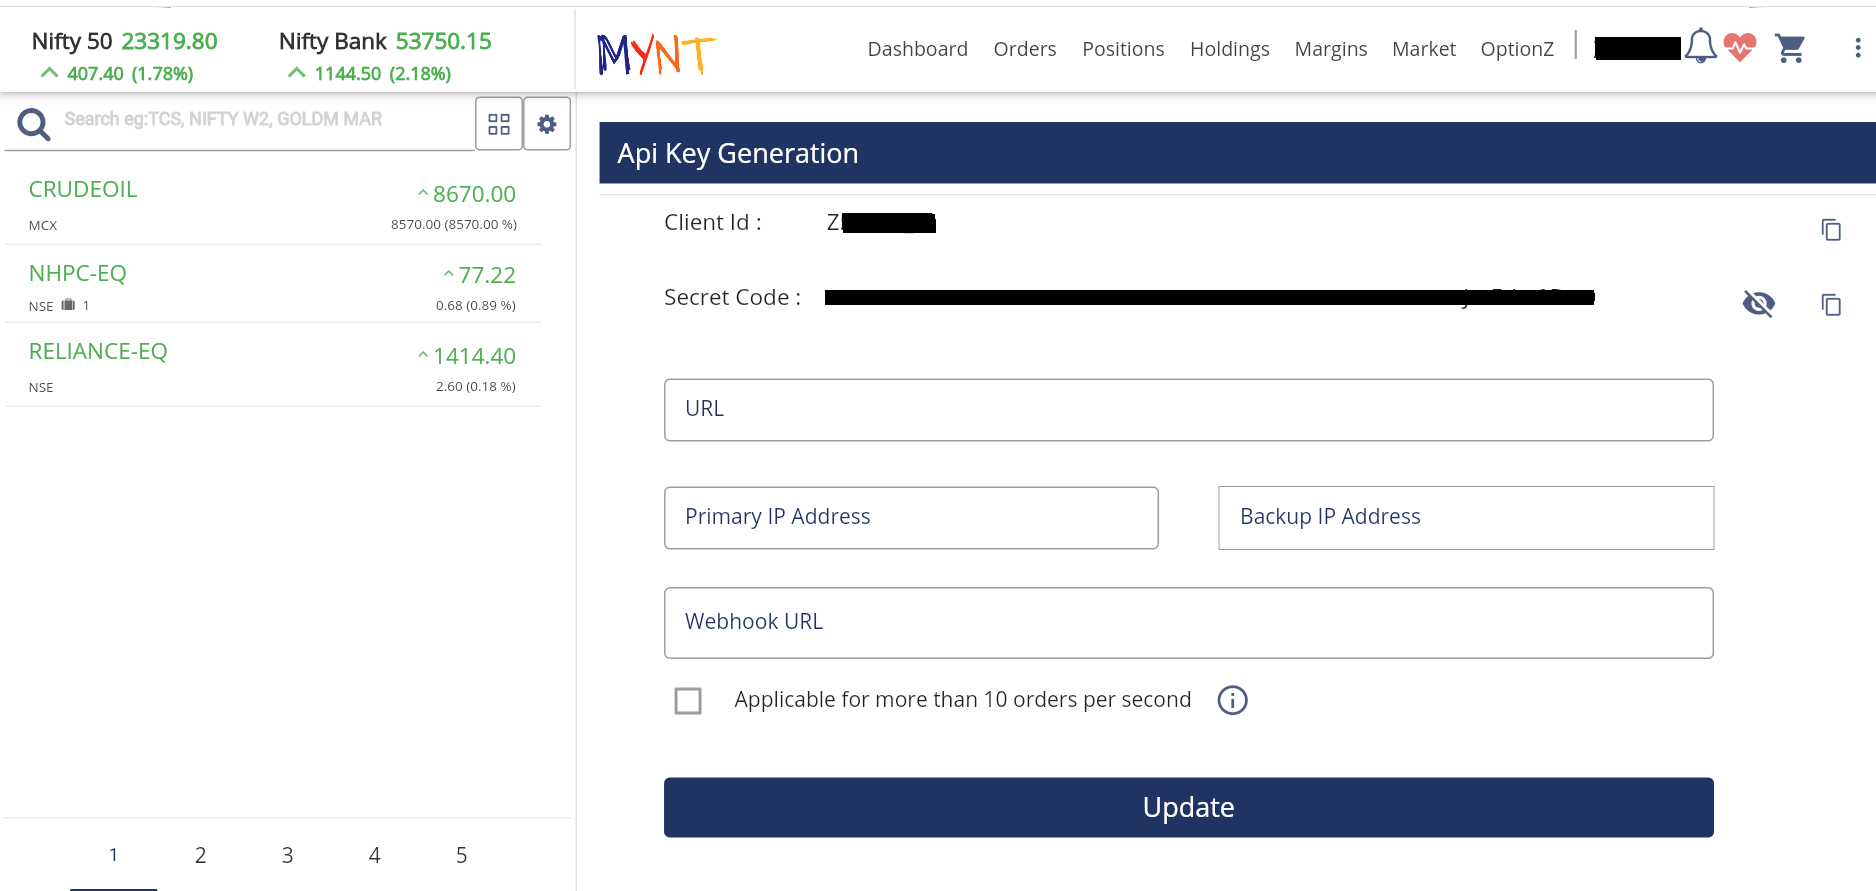
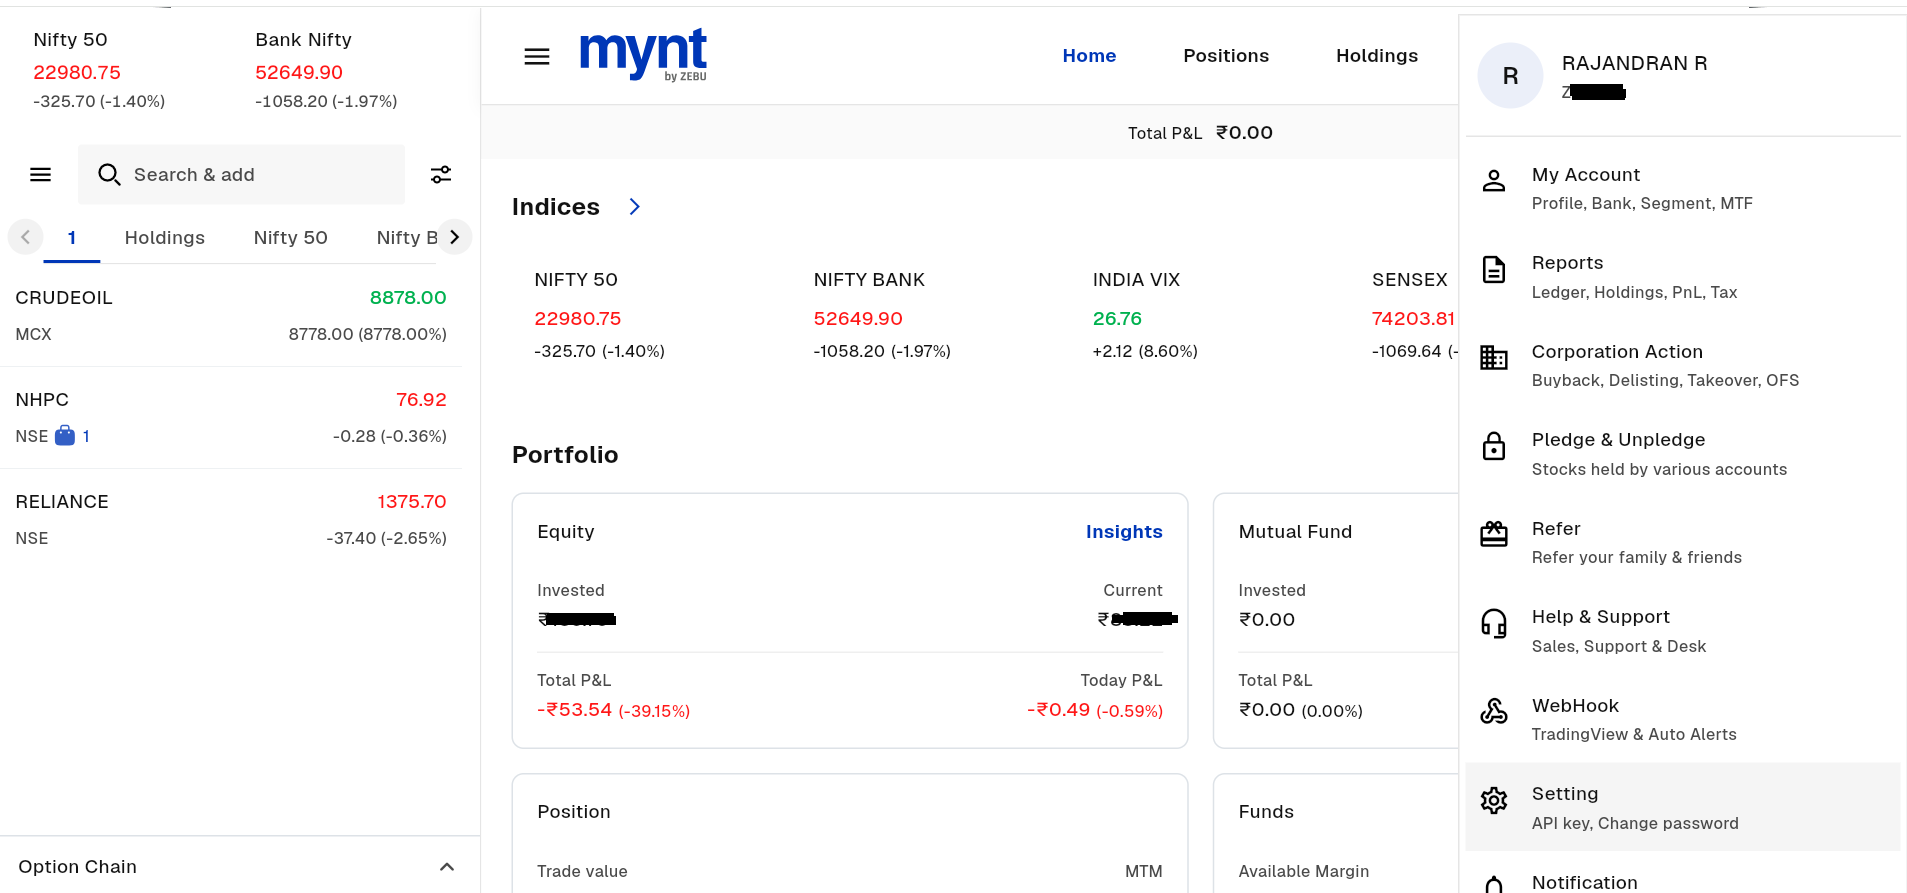
GITBOOK-672: No subject

diff --git a/connect-brokers/brokers/zebu.md b/connect-brokers/brokers/zebu.md
@@ -14,25 +14,21 @@ Before using the API, you need to generate an API key and API secret.
 
 1\. Login to Zebu MYNT
 
-Go to the [MYNT Web Application](https://mynt.in/#/) and log in with your Zebu credentials.
+Go to the [https://mynt.zebuetrade.com/login](https://mynt.zebuetrade.com/login) and log in with your Zebu credentials.
 
-<figure><img src="../../.gitbook/assets/image (55).png" alt=""><figcaption></figcaption></figure>
+<figure><img src="../../.gitbook/assets/zebu1.PNG" alt=""><figcaption></figcaption></figure>
 
 2\. Access API Key Generation
 
-Navigate to Profile and click on the Client Code at the top right corner.
-
-<figure><img src="../../.gitbook/assets/image (56).png" alt=""><figcaption></figcaption></figure>
-
-Press the API Key button next to the logout option.
-
-<figure><img src="../../.gitbook/assets/image (57).png" alt=""><figcaption></figcaption></figure>
-
-3\. Generate API Key and API Secret
+Navigate to Profile ,click on the Client Code at the top right corner and select setting.
 
 <figure><img src="../../.gitbook/assets/zebu2 (1).PNG" alt=""><figcaption></figcaption></figure>
 
-Once generated, the Vendor Code and APP Key will be provided for the app. These keys are essential for authenticating API requests. Here’s how your .env file might look:
+click the OAuth Key button and fill in the details and Update.
+
+<figure><img src="../../.gitbook/assets/zebu3.PNG" alt=""><figcaption></figcaption></figure>
+
+Once generated, the client Id and Secret Code will be provided for the app. These keys are essential for authenticating API requests. Here’s how your .env file might look:
 
 ```
 BROKER_API_KEY = 'your_userid_here':::'your_ClientId_here'
